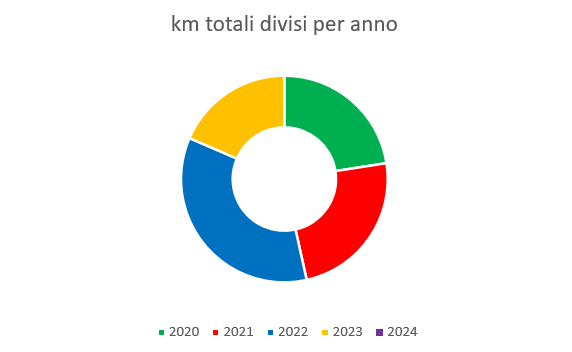
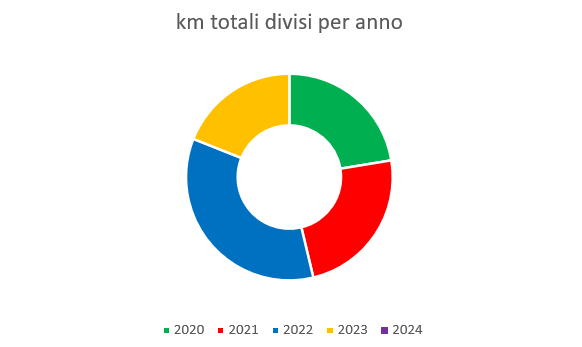
Add files via upload

diff --git a/Statistiche/Statistiche2023.html b/Statistiche/Statistiche2023.html
@@ -47,55 +47,55 @@
         <tr>
             <td>Gennaio</td>
             <td>127</td>
-            <td>6,30%</td>
+            <td>6,11%</td>
         </tr>
 
         <tr>
             <td>Febbraio</td>
             <td>148</td>
-            <td>7,34%</td>
+            <td>7,12%</td>
         </tr>
 
         <tr>
             <td>Marzo</td>
             <td>194</td>
-            <td>9,62%</td>
+            <td>9,33%</td>
         </tr>
 
         <tr>
             <td>Aprile</td>
             <td>103</td>
-            <td>5,11%</td>
+            <td>4,95%</td>
         </tr>
 
         <tr>
             <td>Maggio</td>
             <td>242</td>
-            <td>12,00%</td>
+            <td>11,64%</td>
         </tr>
 
         <tr>
             <td>Giugno</td>
             <td>265</td>
-            <td>13,14%</td>
+            <td>12,75%</td>
         </tr>
 
         <tr>
             <td>Luglio</td>
             <td>422</td>
-            <td>20,92%</td>
+            <td>20,30%</td>
         </tr>
 
         <tr>
             <td>Agosto</td>
             <td>426</td>
-            <td>21,12%</td>
+            <td>20,49%</td>
         </tr>
 
         <tr>
             <td>Settembre</td>
-            <td>90</td>
-            <td>4,46%</td>
+            <td>152</td>
+            <td>7,31%</td>
         </tr>
 
     </table>
@@ -106,10 +106,10 @@
 
     <br>
     <div class="colore">
-        <p>totale km 2.017
+        <p>totale km 2.079
             <img src="../Icone/traguardo.png">
         </p>
-        <p>km medi percorsi 59,32 km </p>
+        <p>km medi percorsi 59,40 km </p>
     </div>
     <br>
 

diff --git a/Statistiche.html b/Statistiche.html
@@ -83,7 +83,7 @@
             </td>
 
             <td>
-                22,50%
+                22,40%
             </td>
 
         </tr>
@@ -99,7 +99,7 @@
             </td>
 
             <td>
-                24,00%
+                23,90%
             </td>
         </tr>
 
@@ -113,7 +113,7 @@
             </td>
 
             <td>
-                35,00%
+                34,80%
             </td>
 
         </tr>
@@ -124,11 +124,11 @@
             </td>
 
             <td>
-                2.017
+                2.079
             </td>
 
             <td>
-                18,50%
+                19,00%
             </td>
 
         </tr>
@@ -158,11 +158,11 @@
 
     <div class="colore">
         <p>
-            totale km fatti 10.895
+            totale km fatti 10.957
             <img src="Icone/traguardo.png">
         </p>
 
-        <p>km medi percorsi 68,96 km </p>
+        <p>km medi percorsi 68,91 km </p>
 
     </div>
 

diff --git a/Estate/Estate2023.html b/Estate/Estate2023.html
@@ -202,15 +202,24 @@
             <td>km</td>
         </tr>
 
+        <tr>
+            <td>7 settembre</td>
+            <td>17</td>
+            <td><a href="https://www.komoot.com/it-it/tour/1297798381?ref=wtd&share_token=abQ6ZvRAamPFhRBjYMuPGSV2gKyTasxlhNMgUPRRhRIV2svo7A">
+                    Ariis + Varmo</a></td>
+            <td>62</td>
+            <td>km</td>
+        </tr>
+
     </table>
 
 
     <br>
     <div class="colore">
-        <p> totale km 1.000
+        <p> totale km 1.062
             <img src="../Icone/traguardo.png">
         </p>
-        <p>km medi percorsi 62,50
+        <p>km medi percorsi 62,47
         </p>
     </div>
 </body>

diff --git a/Giri.html b/Giri.html
@@ -242,11 +242,11 @@
     <br>
     <div class="colore">
         <p>
-            totale km fatti 10.895
+            totale km fatti 10.957
             <img src="Icone/traguardo.png">
         </p>
 
-        <p>km medi percorsi 68,96 km </p>
+        <p>km medi percorsi 68,91 km </p>
 
     </div>
 

diff --git a/Estate.html b/Estate.html
@@ -104,7 +104,7 @@
                 </td>
     
                 <td>
-                    1.000
+                    1.062
                 </td>
             </tr>
 
